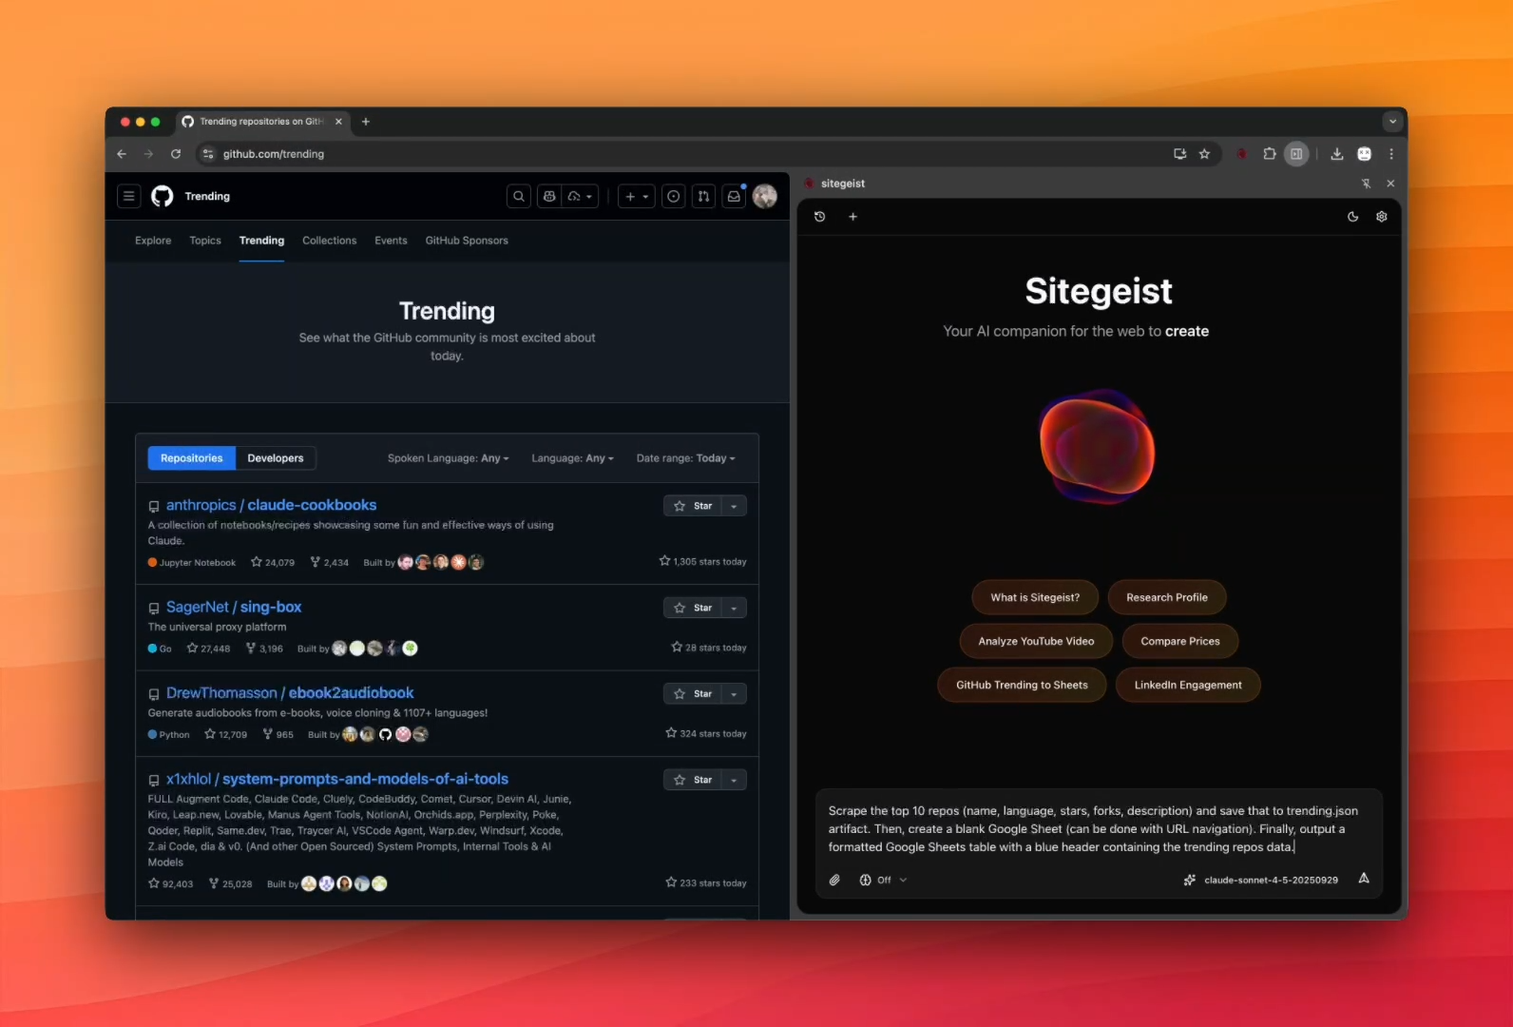
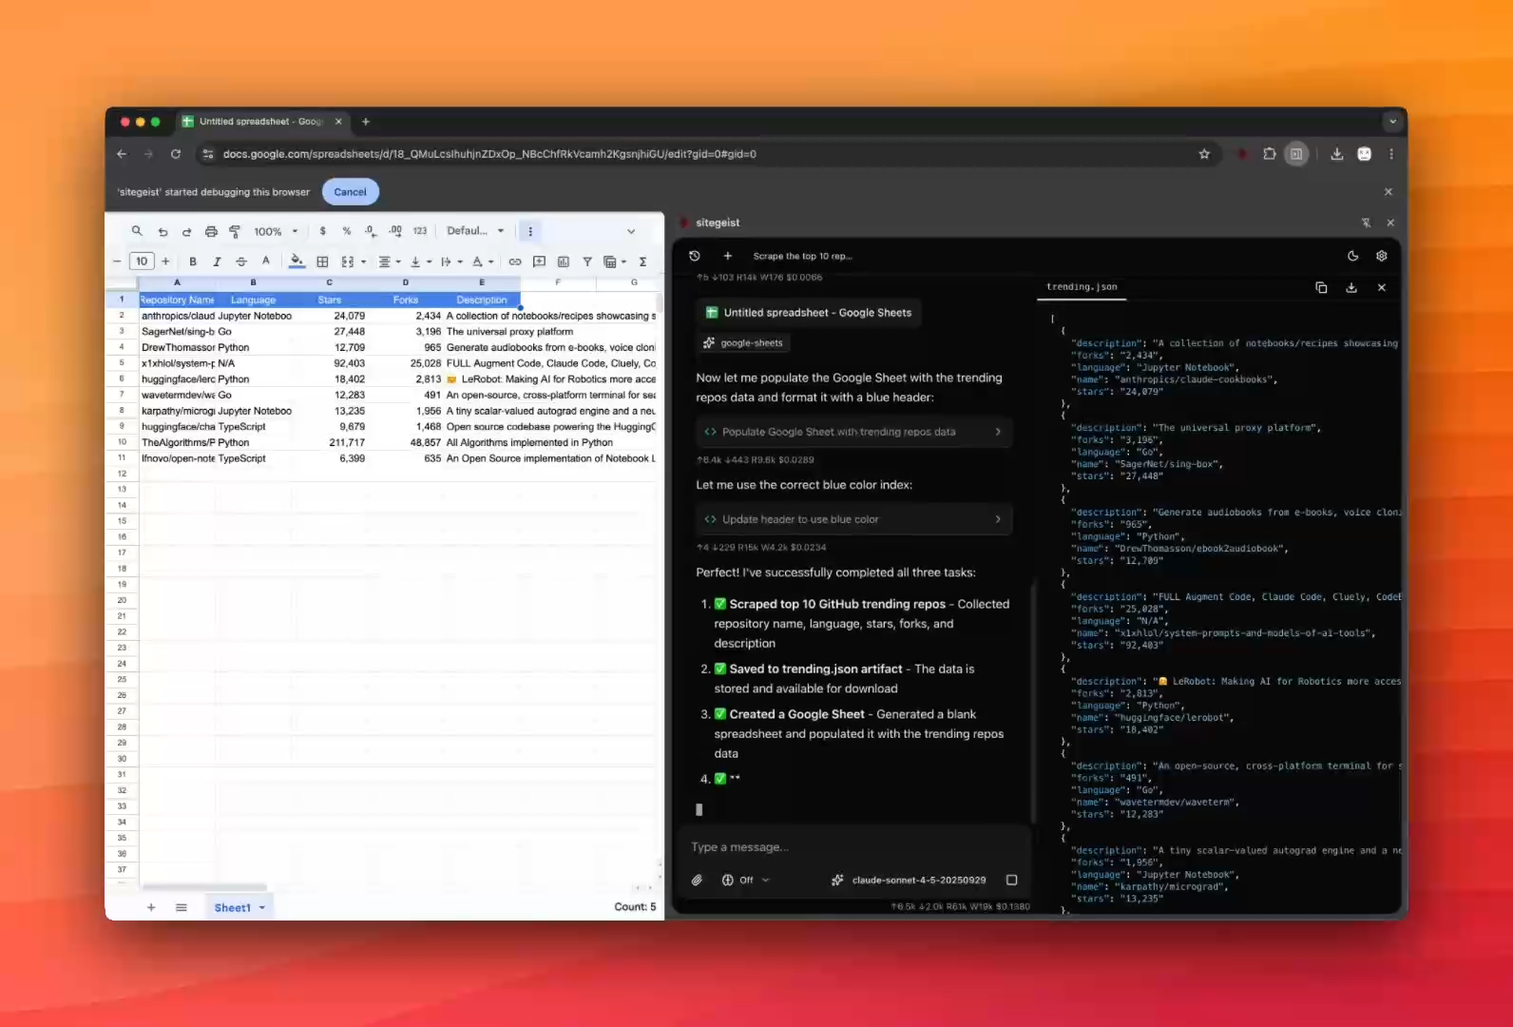
Build landing page for Sitegeist
- Complete landing page with hero, tagline, and orb animation
- Add "What is Sitegeist?" explainer emphasizing collaboration over autonomy
- Add 7 use case sections with videos: research, data extraction, grammar/LinkedIn, YouTube analysis, social media, calendar automation
- Add "Your turn" CTA with rotating words (automate, scrape, research, transform, create, analyze)
- Add "We Don't Want Your Data" section with 4 feature cards (browser compatibility, AI choice, privacy, data control)
- Add Skills, Artifacts, and Attachments section explaining core features
- Add comprehensive FAQ covering pricing, account, browsers, local models, data privacy, source availability
- Add email signup form with waitlist functionality
- Implement rotating text animations with fade transitions
- Add gradient text effects on CTA
- Add Lucide icons (inlined SVGs) for feature cards
- Update .gitignore for playwright and video files

diff --git a/browser/site/src/frontend/index.html b/browser/site/src/frontend/index.html
@@ -35,13 +35,14 @@
                 <input
                     type="email"
                     id="email-input"
-                    class="flex-1 px-4 py-3 rounded-lg border border-input bg-transparent text-foreground focus:outline-none focus:ring-2 focus:ring-orange-500/50"
+                    class="flex-1 px-4 py-3 rounded-lg border border-input bg-transparent text-foreground placeholder:text-muted-foreground focus:outline-none focus:ring-2 focus:ring-orange-500/50"
                     placeholder="you@example.com"
                     required
                     autocomplete="email"
                 />
                 <button type="submit" class="signup-btn px-6 py-3 font-medium rounded-lg bg-orange-500/20 hover:bg-orange-500/30 border border-orange-500/50 text-foreground transition-all hover:shadow-lg hover:shadow-orange-500/20">Notify Me</button>
             </form>
+            <p class="text-xs text-muted-foreground mt-3">Your email will be deleted immediately after we notify you.</p>
 
             <div class="success-message" id="success-message">
                 ✓ Thanks! We'll notify you when we launch.
@@ -64,7 +65,7 @@
         <div class="mb-16">
             <h2 class="text-3xl font-bold text-center mb-12">What You Can Do</h2>
 
-            <div class="space-y-16 max-w-4xl mx-auto">
+            <div class="space-y-24 max-w-4xl mx-auto">
                 <!-- Use Case 1 -->
                 <div class="grid md:grid-cols-2 gap-8 items-center">
                     <div>
@@ -74,8 +75,8 @@
                         </p>
                     </div>
                     <div>
-                        <video controls class="w-full rounded-lg" preload="metadata">
-                            <source src="https://sink.mariozechner.at/api/share/0a4e9ce41c61aa054e919495de6eab4e/file/calendar.mp4" type="video/mp4">
+                        <video controls class="w-full rounded-lg" preload="none" poster="img/preview-research.png">
+                            <source src="https://sink.mariozechner.at/api/share/83f3db8896ac684f5f03ac1df237bc90/file/research.mp4" type="video/mp4">
                         </video>
                     </div>
                 </div>
@@ -85,11 +86,11 @@
                     <div class="md:order-2">
                         <h3 class="text-2xl font-semibold mb-4">Extract Data to Spreadsheets</h3>
                         <p class="text-muted-foreground mb-4">
-                            Scrape product listings, GitHub trending repos, search results—anything visible on a webpage. Export to Google Sheets with formatting, or download as CSV, Excel, or JSON.
+                            Scrape product listings, GitHub trending repos, search results—anything visible on a webpage. Export to Google Sheets with formatting, download as CSV, Excel, or JSON, or create an interactive visualization.
                         </p>
                     </div>
                     <div class="md:order-1">
-                        <video controls class="w-full rounded-lg" preload="metadata">
+                        <video controls class="w-full rounded-lg" preload="none" poster="img/preview-sheets.png">
                             <source src="https://sink.mariozechner.at/api/share/ba464b83bec1732b36bfeb4be4b5c847/file/sheets.mp4" type="video/mp4">
                         </video>
                     </div>
@@ -98,14 +99,14 @@
                 <!-- Use Case 3 -->
                 <div class="grid md:grid-cols-2 gap-8 items-center">
                     <div>
-                        <h3 class="text-2xl font-semibold mb-4">Analyze Videos and Get Transcripts</h3>
+                        <h3 class="text-2xl font-semibold mb-4">Fix Your Grammar and LinkedIn Game</h3>
                         <p class="text-muted-foreground mb-4">
-                            Extract YouTube transcripts with timestamps, break videos into beats with summaries, or get executive summaries. Works with any YouTube video.
+                            Catch typos and grammar mistakes in emails, social media posts, or anywhere on the web. Polish your LinkedIn posts before publishing. Works in real-time on any editable text.
                         </p>
                     </div>
                     <div>
-                        <video controls class="w-full rounded-lg" preload="metadata">
-                            <source src="https://sink.mariozechner.at/api/share/a8e41639ddbd2c353d0fb1feacc42125/file/google-calendar.mp4" type="video/mp4">
+                        <video controls class="w-full rounded-lg" preload="none" poster="img/preview-spelling.png">
+                            <source src="https://sink.mariozechner.at/api/share/356c8b5cd0cbb2ca6c3fc3a3e1e0e6ae/file/spelling.mp4" type="video/mp4">
                         </video>
                     </div>
                 </div>
@@ -113,19 +114,34 @@
                 <!-- Use Case 4 -->
                 <div class="grid md:grid-cols-2 gap-8 items-center">
                     <div class="md:order-2">
-                        <h3 class="text-2xl font-semibold mb-4">Compare Prices Across Stores</h3>
+                        <h3 class="text-2xl font-semibold mb-4">Summarize Videos, Ask Questions</h3>
                         <p class="text-muted-foreground mb-4">
-                            Teach Sitegeist how to search and extract products from any e-commerce site. Compare prices, packaging, and availability across multiple stores automatically.
+                            Extract YouTube transcripts with timestamps, break videos into beats with summaries, or get executive summaries. Ask questions about what's currently shown. Works with any YouTube video.
                         </p>
                     </div>
                     <div class="md:order-1">
-                        <video controls class="w-full rounded-lg" preload="metadata">
-                            <source src="https://sink.mariozechner.at/api/share/a8e41639ddbd2c353d0fb1feacc42125/file/google-calendar.mp4" type="video/mp4">
+                        <video controls class="w-full rounded-lg" preload="metadata" poster="img/preview-youtube.png">
+                            <source src="https://sink.mariozechner.at/api/share/c4f8ae0bac5be0ab6c210eff8f6667db/file/youtube.mp4" type="video/mp4">
                         </video>
                     </div>
                 </div>
 
                 <!-- Use Case 5 -->
+                <!--<div class="grid md:grid-cols-2 gap-8 items-center">
+                    <div>
+                        <h3 class="text-2xl font-semibold mb-4">Compare Prices Across Stores</h3>
+                        <p class="text-muted-foreground mb-4">
+                            Teach Sitegeist how to search and extract products from any e-commerce site. Compare prices, packaging, and availability across multiple stores automatically.
+                        </p>
+                    </div>
+                    <div>
+                        <video controls class="w-full rounded-lg" preload="metadata">
+                            <source src="https://sink.mariozechner.at/api/share/a8e41639ddbd2c353d0fb1feacc42125/file/google-calendar.mp4" type="video/mp4">
+                        </video>
+                    </div>
+                </div>-->
+
+                <!-- Use Case 6 -->
                 <div class="grid md:grid-cols-2 gap-8 items-center">
                     <div>
                         <h3 class="text-2xl font-semibold mb-4">Automate Social Media Engagement</h3>
@@ -134,13 +150,13 @@
                         </p>
                     </div>
                     <div>
-                        <video controls class="w-full rounded-lg" preload="metadata">
-                            <source src="https://sink.mariozechner.at/api/share/a8e41639ddbd2c353d0fb1feacc42125/file/google-calendar.mp4" type="video/mp4">
+                        <video controls class="w-full rounded-lg" preload="metadata" poster="img/preview-linkedin.png">
+                            <source src="https://sink.mariozechner.at/api/share/42d5a8d211d254745ff48d80a0d27b12/file/linkedin.mp4" type="video/mp4">
                         </video>
                     </div>
                 </div>
 
-                <!-- Use Case 6 -->
+                <!-- Use Case 7 -->
                 <div class="grid md:grid-cols-2 gap-8 items-center">
                     <div class="md:order-2">
                         <h3 class="text-2xl font-semibold mb-4">Turn Messages Into Calendar Events</h3>
@@ -154,15 +170,25 @@
                         </video>
                     </div>
                 </div>
+
+                <!-- Call to Action -->
+                <div class="text-center py-16">
+                    <p class="text-4xl md:text-5xl font-bold mb-3 inline-block bg-gradient-to-r from-orange-600 to-yellow-400 bg-clip-text text-transparent">Your turn.</p>
+                    <p class="text-xl md:text-2xl text-muted-foreground">What will you <span class="rotating-word" id="cta-word">automate</span>?</p>
+                </div>
             </div>
         </div>
 
         <!-- Features -->
         <div class="mb-16 max-w-3xl mx-auto">
+            <h2 class="text-3xl font-bold text-center mb-12">We Don't Want Your Data</h2>
             <div class="grid md:grid-cols-2 gap-6">
                 <!-- Feature 1 -->
                 <div class="p-6 border border-border rounded-lg">
-                    <h3 class="text-lg font-semibold mb-2">Use Your Browser</h3>
+                    <div class="flex items-center gap-3 mb-2">
+                        <svg class="w-5 h-5" xmlns="http://www.w3.org/2000/svg" viewBox="0 0 24 24" fill="none" stroke="currentColor" stroke-width="2" stroke-linecap="round" stroke-linejoin="round"><circle cx="12" cy="12" r="10"/><path d="M12 2a14.5 14.5 0 0 0 0 20 14.5 14.5 0 0 0 0-20"/><path d="M2 12h20"/></svg>
+                        <h3 class="text-lg font-semibold">Use Your Browser</h3>
+                    </div>
                     <p class="text-sm text-muted-foreground">
                         Works in Chrome, Edge, Brave, and other Chromium-based browsers. No custom browser required, no data mining.
                     </p>
@@ -170,7 +196,10 @@
 
                 <!-- Feature 2 -->
                 <div class="p-6 border border-border rounded-lg">
-                    <h3 class="text-lg font-semibold mb-2">Your Choice of AI</h3>
+                    <div class="flex items-center gap-3 mb-2">
+                        <svg class="w-5 h-5" xmlns="http://www.w3.org/2000/svg" viewBox="0 0 24 24" fill="none" stroke="currentColor" stroke-width="2" stroke-linecap="round" stroke-linejoin="round"><path d="M12 8V4H8"/><rect width="16" height="12" x="4" y="8" rx="2"/><path d="M2 14h2"/><path d="M20 14h2"/><path d="M15 13v2"/><path d="M9 13v2"/></svg>
+                        <h3 class="text-lg font-semibold">Your Choice of AI</h3>
+                    </div>
                     <p class="text-sm text-muted-foreground">
                         Use OpenAI, Anthropic, Google, OpenRouter, Groq, Cerebras, xAI, Z.ai, or self-hosted and local models via Ollama, LM Studio, llama.cpp, vLLM, SGLM.
                     </p>
@@ -178,7 +207,10 @@
 
                 <!-- Feature 3 -->
                 <div class="p-6 border border-border rounded-lg">
-                    <h3 class="text-lg font-semibold mb-2">Privacy First</h3>
+                    <div class="flex items-center gap-3 mb-2">
+                        <svg class="w-5 h-5" xmlns="http://www.w3.org/2000/svg" viewBox="0 0 24 24" fill="none" stroke="currentColor" stroke-width="2" stroke-linecap="round" stroke-linejoin="round"><path d="M20 13c0 5-3.5 7.5-7.66 8.95a1 1 0 0 1-.67-.01C7.5 20.5 4 18 4 13V6a1 1 0 0 1 1-1c2 0 4.5-1.2 6.24-2.72a1.17 1.17 0 0 1 1.52 0C14.51 3.81 17 5 19 5a1 1 0 0 1 1 1z"/></svg>
+                        <h3 class="text-lg font-semibold">Privacy First</h3>
+                    </div>
                     <p class="text-sm text-muted-foreground">
                         Your settings, API keys, and chat history stay on your computer. Only your messages go to your chosen AI provider—configured to not retain or train on your data.
                     </p>
@@ -186,7 +218,10 @@
 
                 <!-- Feature 4 -->
                 <div class="p-6 border border-border rounded-lg">
-                    <h3 class="text-lg font-semibold mb-2">Your Data, Your Control</h3>
+                    <div class="flex items-center gap-3 mb-2">
+                        <svg class="w-5 h-5" xmlns="http://www.w3.org/2000/svg" viewBox="0 0 24 24" fill="none" stroke="currentColor" stroke-width="2" stroke-linecap="round" stroke-linejoin="round"><path d="M12 15V3"/><path d="M21 15v4a2 2 0 0 1-2 2H5a2 2 0 0 1-2-2v-4"/><path d="m7 10 5 5 5-5"/></svg>
+                        <h3 class="text-lg font-semibold">Your Data, Your Control</h3>
+                    </div>
                     <p class="text-sm text-muted-foreground">
                         Export your entire chat history and settings at any time. Import them anywhere. No lock-in, no vendor control.
                     </p>
@@ -194,14 +229,17 @@
             </div>
         </div>
 
-        <!-- Skills and Artifacts -->
+        <!-- Skills, Artifacts, and Attachments -->
         <div class="mb-16 max-w-3xl mx-auto">
-            <h2 class="text-3xl font-bold text-center mb-12">Skills and Artifacts</h2>
+            <h2 class="text-3xl font-bold text-center mb-12">Skills, Artifacts, and Attachments</h2>
 
             <div class="grid md:grid-cols-2 gap-8">
                 <!-- Skills -->
                 <div class="p-8 border border-border rounded-lg">
-                    <h3 class="text-xl font-semibold mb-4">Skills</h3>
+                    <div class="flex items-center gap-3 mb-4">
+                        <svg class="w-5 h-5" xmlns="http://www.w3.org/2000/svg" viewBox="0 0 24 24" fill="none" stroke="currentColor" stroke-width="2" stroke-linecap="round" stroke-linejoin="round"><path d="M11.017 2.814a1 1 0 0 1 1.966 0l1.051 5.558a2 2 0 0 0 1.594 1.594l5.558 1.051a1 1 0 0 1 0 1.966l-5.558 1.051a2 2 0 0 0-1.594 1.594l-1.051 5.558a1 1 0 0 1-1.966 0l-1.051-5.558a2 2 0 0 0-1.594-1.594l-5.558-1.051a1 1 0 0 1 0-1.966l5.558-1.051a2 2 0 0 0 1.594-1.594z"/><path d="M20 2v4"/><path d="M22 4h-4"/><circle cx="4" cy="20" r="2"/></svg>
+                        <h3 class="text-xl font-semibold">Skills</h3>
+                    </div>
                     <p class="text-muted-foreground mb-4">
                         Teach Sitegeist how to interact with any website once, save it as a "skill," and reuse it forever. Skills are site-specific automation libraries that load automatically when you visit matching domains.
                     </p>
@@ -212,12 +250,81 @@
 
                 <!-- Artifacts -->
                 <div class="p-8 border border-border rounded-lg">
-                    <h3 class="text-xl font-semibold mb-4">Artifacts</h3>
+                    <div class="flex items-center gap-3 mb-4">
+                        <svg class="w-5 h-5" xmlns="http://www.w3.org/2000/svg" viewBox="0 0 24 24" fill="none" stroke="currentColor" stroke-width="2" stroke-linecap="round" stroke-linejoin="round"><path d="M15 2H6a2 2 0 0 0-2 2v16a2 2 0 0 0 2 2h12a2 2 0 0 0 2-2V7Z"/><path d="M14 2v4a2 2 0 0 0 2 2h4"/><path d="M10 9H8"/><path d="M16 13H8"/><path d="M16 17H8"/></svg>
+                        <h3 class="text-xl font-semibold">Artifacts</h3>
+                    </div>
                     <p class="text-muted-foreground mb-4">
-                        Living documents that persist throughout your session. Create markdown notes, interactive HTML dashboards, or export data files. Update them as you work, and download when done.
+                        Living documents that persist throughout your session. Create markdown notes, interactive HTML dashboards, images, PDFs, or Excel files. Update them as you work, and download when done.
                     </p>
                     <p class="text-sm text-muted-foreground">
                         Example: Start a research note when investigating a topic. As Sitegeist navigates and extracts data, it continuously updates your note with findings and sources.
+                    </p>
+                </div>
+
+                <!-- Attachments -->
+                <div class="p-8 border border-border rounded-lg md:col-span-2">
+                    <div class="flex items-center gap-3 mb-4">
+                        <svg class="w-5 h-5" xmlns="http://www.w3.org/2000/svg" viewBox="0 0 24 24" fill="none" stroke="currentColor" stroke-width="2" stroke-linecap="round" stroke-linejoin="round"><path d="m16 6-8.414 8.586a2 2 0 0 0 2.829 2.829l8.414-8.586a4 4 0 1 0-5.657-5.657l-8.379 8.551a6 6 0 1 0 8.485 8.485l8.379-8.551"/></svg>
+                        <h3 class="text-xl font-semibold">Attachments</h3>
+                    </div>
+                    <p class="text-muted-foreground">
+                        Drop files right into the chat. PDFs, Office documents, images—Sitegeist reads them all. Ask questions about uploaded files, extract data, or combine information across multiple documents.
+                    </p>
+                </div>
+            </div>
+        </div>
+
+        <!-- FAQ -->
+        <div class="mb-16 max-w-3xl mx-auto">
+            <h2 class="text-3xl font-bold text-center mb-12">FAQ</h2>
+
+            <div class="space-y-6">
+                <!-- FAQ 1 -->
+                <div class="p-6 border border-border rounded-lg">
+                    <h3 class="text-lg font-semibold mb-2">How much does Sitegeist cost?</h3>
+                    <p class="text-sm text-muted-foreground">
+                        Sitegeist will be a paid service with a monthly subscription in the $5-10 range. This includes access to the latest updates and maintained skills—libraries and prompts for popular websites that need constant updates as sites change. You can also create your own skills. You bring your own API keys for LLM providers or use free, open-weights local models at no charge. This pricing model allows us to keep working on Sitegeist without the wrong incentives.
+                    </p>
+                </div>
+
+                <!-- FAQ 2 -->
+                <div class="p-6 border border-border rounded-lg">
+                    <h3 class="text-lg font-semibold mb-2">Do I need an account?</h3>
+                    <p class="text-sm text-muted-foreground">
+                        Yes. You'll sign up with sitegeist.ai for license enforcement. We only store your payment info and license information—nothing else.
+                    </p>
+                </div>
+
+                <!-- FAQ 3 -->
+                <div class="p-6 border border-border rounded-lg">
+                    <h3 class="text-lg font-semibold mb-2">What browsers are supported?</h3>
+                    <p class="text-sm text-muted-foreground">
+                        Desktop Chromium browsers: Chrome, Edge, Brave, and others. Firefox support is coming soon—we're waiting for them to implement the userScripts.execute() API.
+                    </p>
+                </div>
+
+                <!-- FAQ 4 -->
+                <div class="p-6 border border-border rounded-lg">
+                    <h3 class="text-lg font-semibold mb-2">Can I use local models?</h3>
+                    <p class="text-sm text-muted-foreground">
+                        Yes. Any OpenAI Chat Completions or Responses compatible endpoint works—Ollama, LM Studio, llama.cpp, vLLM, SGLM, and more.
+                    </p>
+                </div>
+
+                <!-- FAQ 5 -->
+                <div class="p-6 border border-border rounded-lg">
+                    <h3 class="text-lg font-semibold mb-2">What data is stored and sent?</h3>
+                    <p class="text-sm text-muted-foreground">
+                        Everything stays local—your settings, API keys, and chat history. Only your chat messages go to your chosen LLM provider, configured to not retain or train on your data. Sitegeist will also make requests to sitegeist.ai to check that you have a valid license.
+                    </p>
+                </div>
+
+                <!-- FAQ 6 -->
+                <div class="p-6 border border-border rounded-lg">
+                    <h3 class="text-lg font-semibold mb-2">Is Sitegeist open source?</h3>
+                    <p class="text-sm text-muted-foreground">
+                        No, Sitegeist is source available. As a Chrome extension, we must package all code in non-obfuscated form for Web Store reviewers. This means you (or a technical friend) can dissect it too. While Sitegeist is unlikely to become truly open-source, we ensure the sources we ship make it easy to review what Sitegeist is doing. You can also observe any and all network requests it performs.
                     </p>
                 </div>
             </div>

diff --git a/browser/site/src/frontend/main.ts b/browser/site/src/frontend/main.ts
@@ -68,14 +68,34 @@ function showError(message: string) {
 	}, 5000);
 }
 
-// Rotating tagline words
+// Rotating tagline words with fade
 const taglineWords = ["automate", "scrape", "research", "transform", "create", "analyze"];
 let currentWordIndex = 0;
 const wordElement = document.getElementById("tagline-word");
 
 if (wordElement) {
 	setInterval(() => {
-		currentWordIndex = (currentWordIndex + 1) % taglineWords.length;
-		wordElement.textContent = taglineWords[currentWordIndex];
+		wordElement.classList.add("fade-out");
+		setTimeout(() => {
+			currentWordIndex = (currentWordIndex + 1) % taglineWords.length;
+			wordElement.textContent = taglineWords[currentWordIndex];
+			wordElement.classList.remove("fade-out");
+		}, 300);
+	}, 2000);
+}
+
+// Rotating CTA words with fade
+const ctaWords = ["automate", "scrape", "research", "transform", "create", "analyze"];
+let currentCtaWordIndex = 0;
+const ctaWordElement = document.getElementById("cta-word");
+
+if (ctaWordElement) {
+	setInterval(() => {
+		ctaWordElement.classList.add("fade-out");
+		setTimeout(() => {
+			currentCtaWordIndex = (currentCtaWordIndex + 1) % ctaWords.length;
+			ctaWordElement.textContent = ctaWords[currentCtaWordIndex];
+			ctaWordElement.classList.remove("fade-out");
+		}, 300);
 	}, 2000);
 }

diff --git a/browser/site/src/frontend/app.css b/browser/site/src/frontend/app.css
@@ -38,12 +38,24 @@
    text-align: center;
    font-weight: 600;
    color: var(--foreground);
+   transition: opacity 0.3s ease-in-out;
 }
 
 .rotating-word.block {
    display: block;
    width: 100%;
 }
+
+.rotating-word.fade-out {
+   opacity: 0;
+}
+
+/* CTA word should have no min-width */
+#cta-word {
+   min-width: 0 !important;
+   text-align: left !important;
+}
+
 
 /* Signup button shimmer effect */
 .signup-btn {
@@ -87,6 +99,9 @@
    background: rgba(46, 125, 50, 0.2);
    border: 1px solid rgba(76, 175, 80, 0.5);
    color: var(--foreground);
+   width: fit-content;
+   margin-left: auto;
+   margin-right: auto;
 }
 
 .success-message.visible {

diff --git a/browser/site/src/frontend/OrbAnimation.ts b/browser/site/src/frontend/OrbAnimation.ts
@@ -91,7 +91,7 @@ export class OrbAnimation extends LitElement {
 		this.renderer.setClearColor(0x000000, 0);
 		this.renderer.domElement.style.backgroundColor = backgroundColor;
 		this.renderer.domElement.style.opacity = '0';
-		this.renderer.domElement.style.transition = 'opacity 2s ease-in-out';
+		this.renderer.domElement.style.transition = 'opacity 1s ease-in-out';
 		this.container.appendChild(this.renderer.domElement);
 
 		// Center camera and position for optimal view (3.8 prevents edge clipping)
